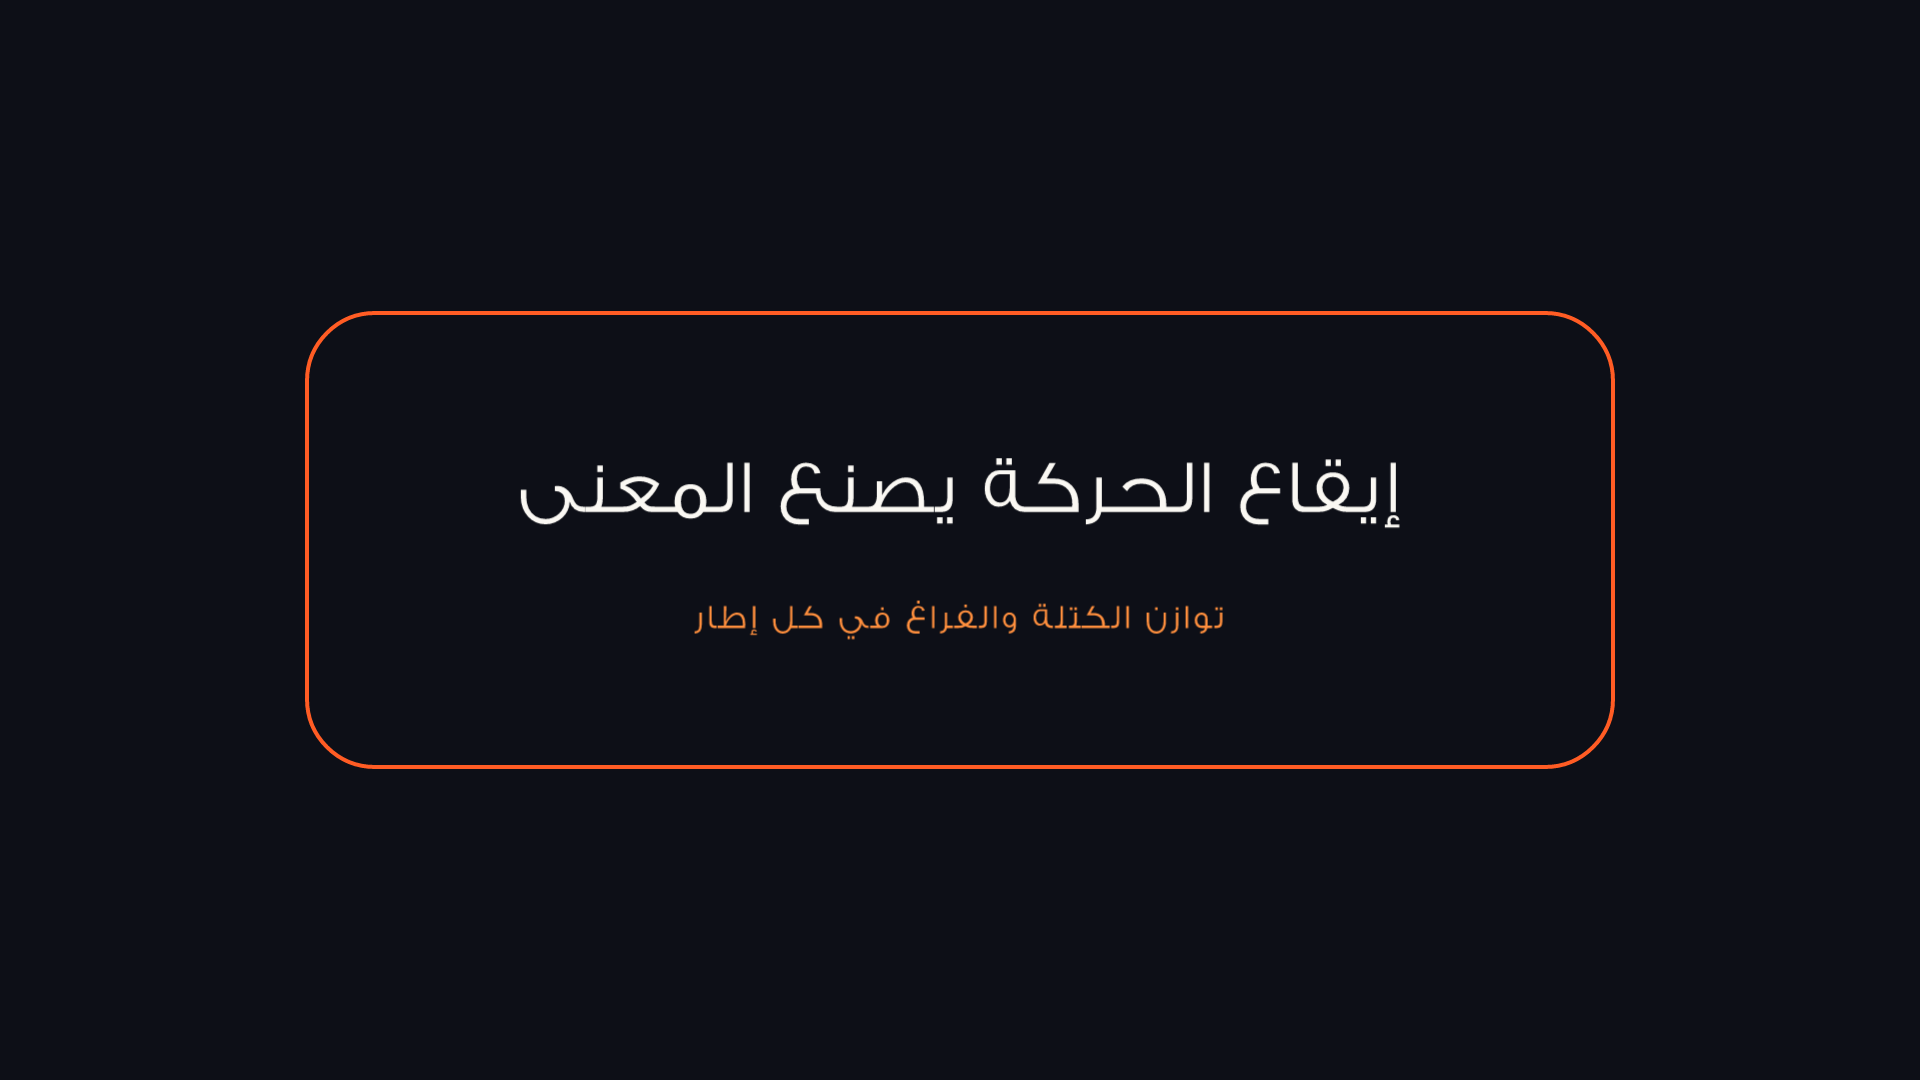
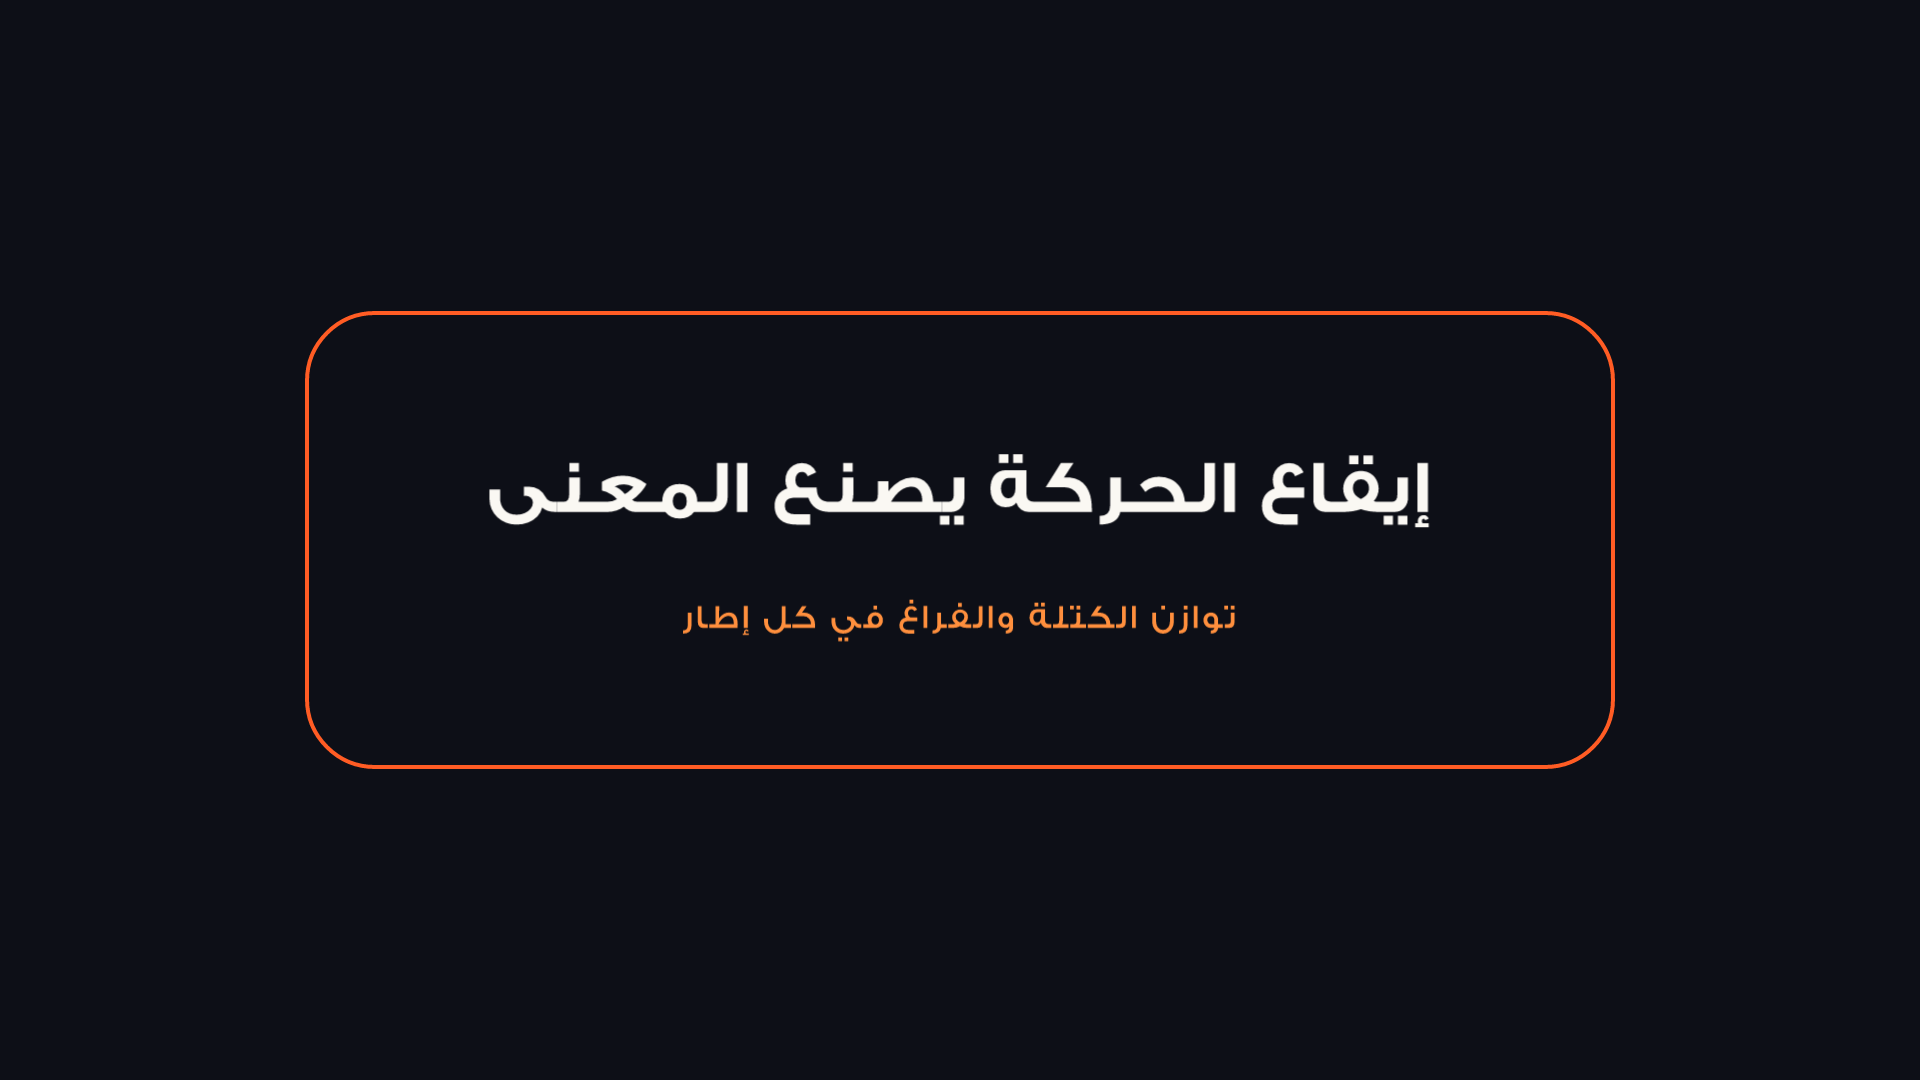
Sync latest GemiFontSans (c713467) and enforce across all TRON typography & UI

Changed region(s): [[0.25, 0.4278, 0.75, 0.4889], [0.3438, 0.55, 0.6562, 0.6111]]

diff --git a/crates/ui-egui/src/theme.rs b/crates/ui-egui/src/theme.rs
@@ -431,6 +431,9 @@ pub fn install(ctx: &egui::Context, t: &Tokens, language: &str) {
     fonts.font_data.insert("gemi-sans-light".into(), Arc::new(FontData::from_static(GEMI_FONT_SANS_LIGHT)));
     fonts.font_data.insert("gemi-sans-medium".into(), Arc::new(FontData::from_static(GEMI_FONT_SANS_MEDIUM)));
     fonts.font_data.insert("gemi-sans-bold".into(), Arc::new(FontData::from_static(GEMI_FONT_SANS_BOLD)));
+    fonts.families.entry(FontFamily::Proportional).or_default().insert(1, "gemi-sans-medium".into());
+    fonts.families.insert(FontFamily::Name("semibold".into()), vec!["inter-semibold".into(), "gemi-sans-bold".into(), "inter".into(), "gemi-sans-medium".into()]);
+    fonts.families.insert(FontFamily::Name("medium".into()), vec!["inter-medium".into(), "gemi-sans-medium".into(), "inter".into()]);
     fonts.families.insert(FontFamily::Name("gemi-sans".into()), vec!["gemi-sans-medium".into(), "gemi-sans-light".into(), "inter".into()]);
     fonts.families.insert(FontFamily::Name("gemi-sans-bold".into()), vec!["gemi-sans-bold".into(), "inter-semibold".into(), "inter".into()]);
     // Inter and egui's own fallbacks have no small triangles (the `▸` of "File ▸ Import"), which

diff --git a/crates/automation/src/tron.rs b/crates/automation/src/tron.rs
@@ -738,6 +738,24 @@ fn execute_single_step(
                     }
                 }
             }
+            if !qo.contains_key("font") {
+                qo.insert("font".to_string(), json!("GemiFontSans"));
+            }
+            if !qo.contains_key("style") {
+                let sz = qo.get("size").and_then(Value::as_f64).unwrap_or(48.0);
+                qo.insert(
+                    "style".to_string(),
+                    json!(if sz >= 48.0 { "Bold" } else { "Medium" }),
+                );
+            }
+            if !qo.contains_key("direction")
+                && qo
+                    .get("text")
+                    .and_then(Value::as_str)
+                    .is_some_and(|t| t.chars().any(|c| ('\u{0600}'..='\u{06FF}').contains(&c)))
+            {
+                qo.insert("direction".to_string(), json!("rtl"));
+            }
             let out = session
                 .execute_checked("layer.newText", q)
                 .map_err(|e| e.to_string())?;

diff --git a/crates/ui-egui/tests/aftertron_acceptance.rs b/crates/ui-egui/tests/aftertron_acceptance.rs
@@ -1193,6 +1193,10 @@ fn aftertron_tron_tri_app_and_three_creative_productions_acceptance() {
     // Save editable .ecproj and reopen via Project::from_json
     let ecproj_a_path = out_dir.join("challenge-a-typography.ecproj");
     let ecproj_a_json = session_a.project.to_file_json().expect("serialize Challenge A .ecproj");
+    assert!(
+        ecproj_a_json.contains("\"font\": \"GemiFontSans\""),
+        "Challenge A must use GemiFontSans from GemiTron88/GemiFonts"
+    );
     std::fs::write(&ecproj_a_path, &ecproj_a_json).expect("write challenge-a-typography.ecproj");
     let reopened_a = effectcraft_engine::project::Project::from_json(&ecproj_a_json)
         .expect("reopen challenge-a-typography.ecproj");
